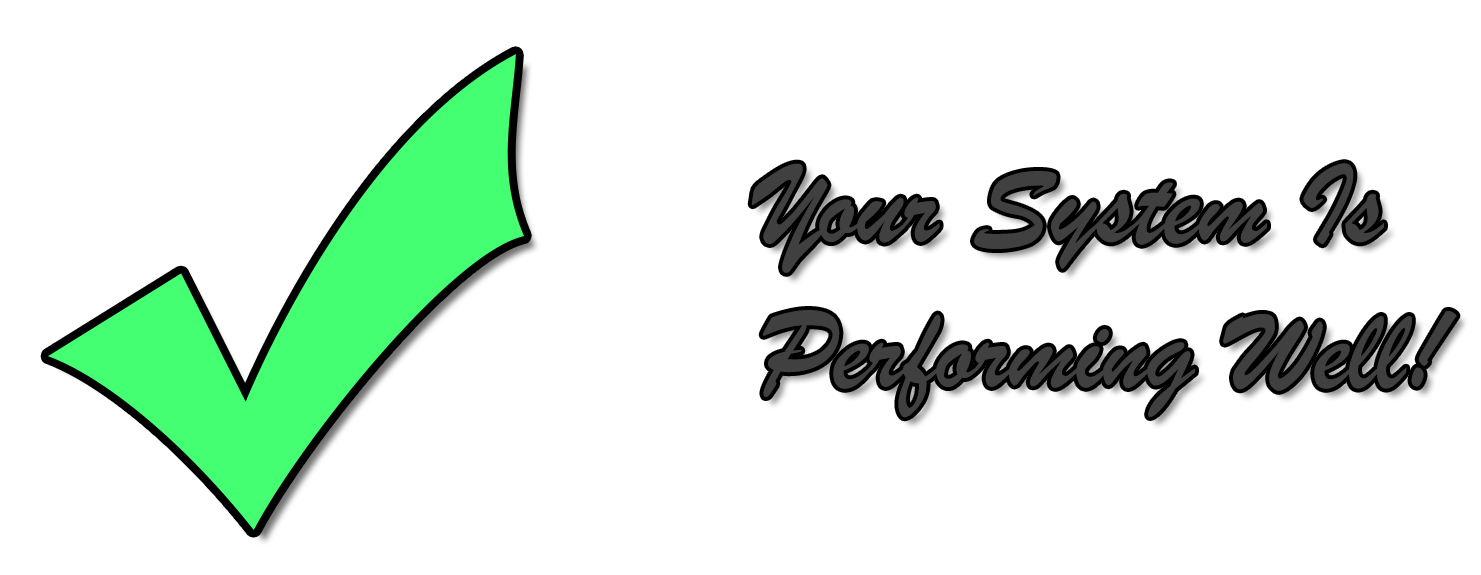
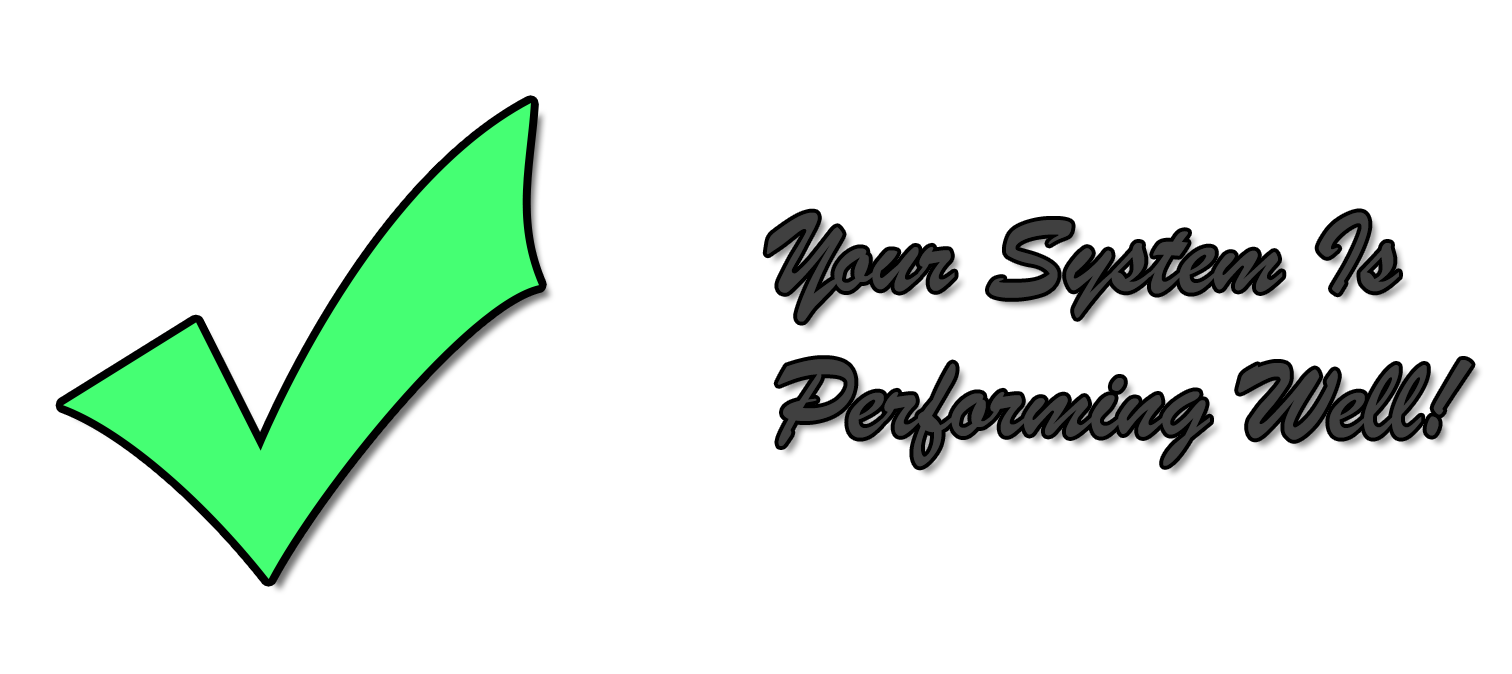
Committing again with differently sized currSys images so they're consistent

diff --git a/React Src/App.js b/React Src/App.js
@@ -5,9 +5,9 @@ import good from './imgs/PerformingProperly.png'
 import bad from './imgs/TriggeredAlert.png'
 
 
-function triggered(){
+function triggered(name){
   const triggered = false;
-  if (triggered) {
+  if (name=="Neena's System") {
     return <img src={bad} height="20%" width="40%" alt="Things are happening that might not be good"/>;
   }
   return <img src={good} height="20%" width="40%" alt="Nothing it happening, or only good things are happening"/>;
@@ -92,7 +92,7 @@ class App extends React.Component {
 					<br></br>
 				</div>
 				<div className="leftSideStatus">
-				{triggered()}
+				{triggered(this.name)}
 				</div>
 			
 		{/*<header className="App-header">

diff --git a/React Src/App.css b/React Src/App.css
@@ -18,11 +18,12 @@
 		margin-left:0;
 		margin-top:38px;
 		background-color: #3498DB;
-		width:19.8%;
+		width:29.8%;
 }
 .logOut{
 		display:inline-block;
 		float:right;
+		margin-left: 10%;
 		margin-right:0;
 		margin-top:38px;
 		background-color: #3498DB;
@@ -34,7 +35,7 @@
 		display:inline-block;
 		margin-left:0;
 		margin-bottom:.5%;
-		width:50%;
+		width:40%;
 		height:100px;
 }
 
